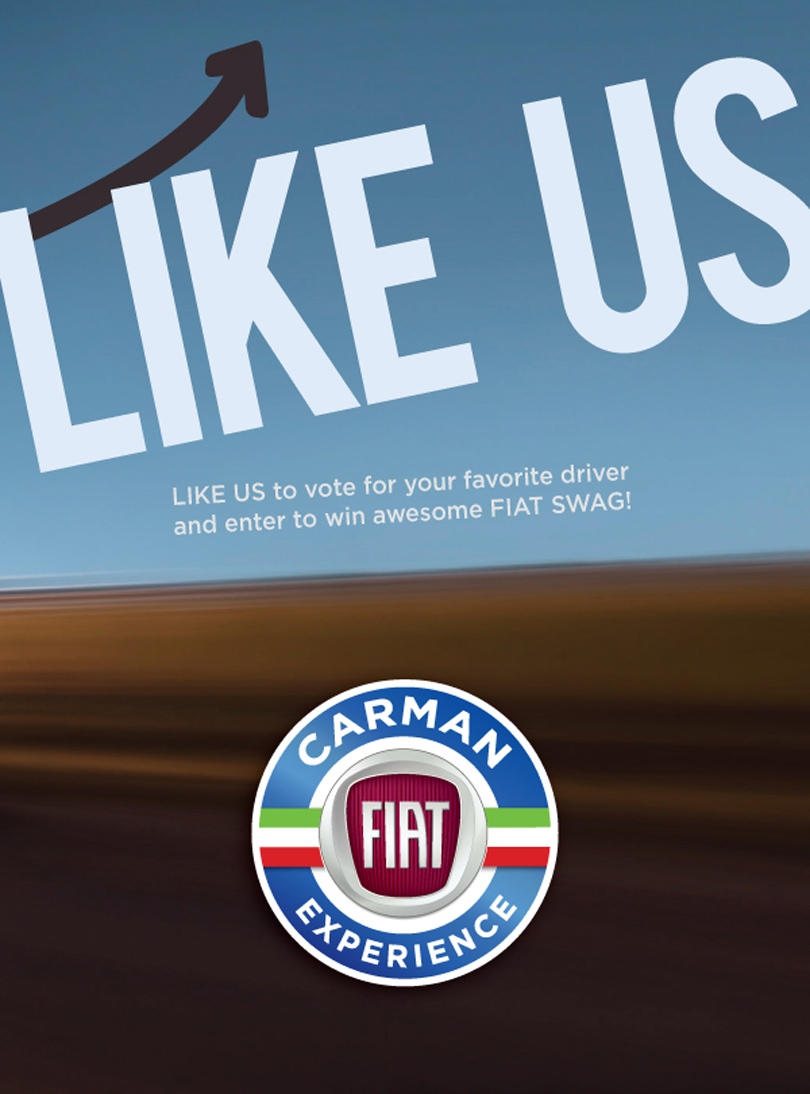
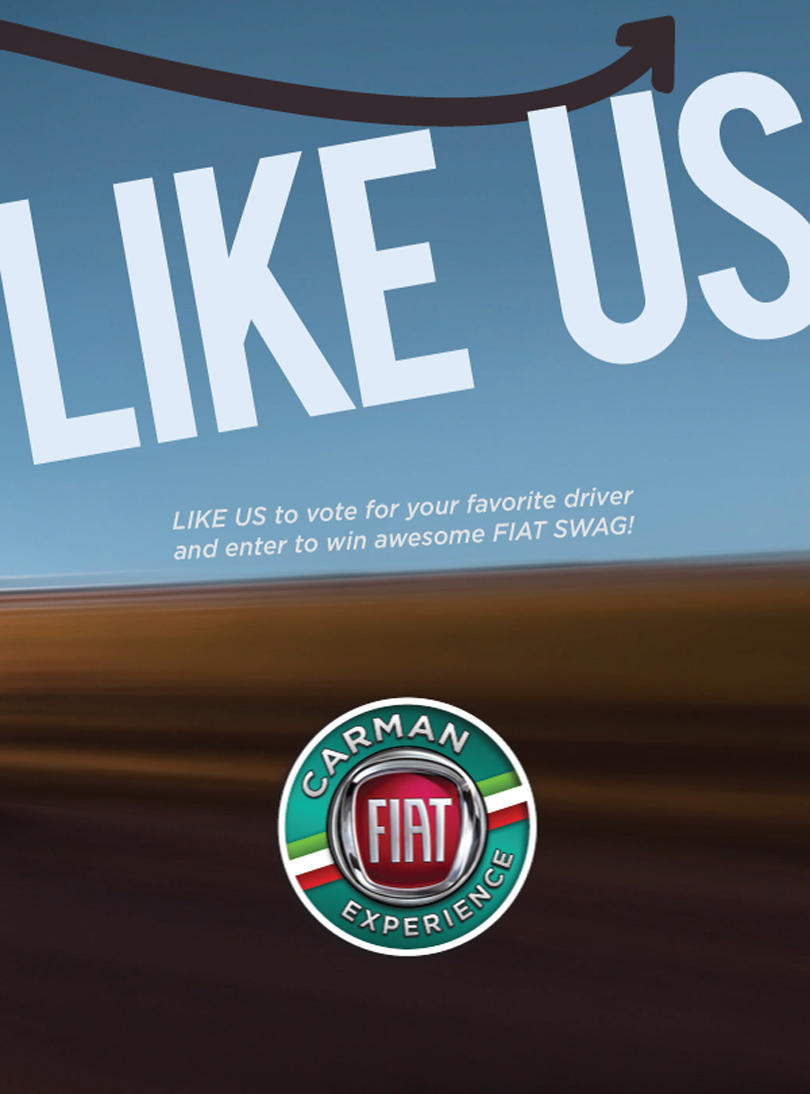
updated main copy

diff --git a/app/assets/stylesheets/custom.css.scss b/app/assets/stylesheets/custom.css.scss
@@ -164,22 +164,24 @@ section#main-container {
 	
 		section#main-content-tab1 {
 			width: 810px;
-			height: 175px;
+			height: 200px;
 			
 			p { 
 				position: relative;
-				top: 35px;
+				top: 10px;
 				left: 50px;
+				font-family: Cambria, Georgia, serif;
 				font-size: 16px;
+				letter-spacing: 1px;
 				color: #fff; 
 			}
 			
 			.vote-btn-big {
 				float: right;
-				margin:-1px 40px 0 0;
-				width: 232px;
-				height: 176px;
-				background: url('/assets/vote-btn-big.png');
+				margin:-1px 20px 0 0;
+				width: 263px;
+				height: 204px;
+				background: url('/assets/vote-btn-big-2.png');
 			}
 		}
 	
@@ -538,6 +540,17 @@ section#test-driver-form {
 	  -webkit-box-shadow: inset 0 0 2px #000;
 	  box-shadow: inner 0 0 2px #000;
 	}
+}
+
+/*-----------MODAL-----------*/
+#myModalLabel {
+	font-family: Cambria, Georgia, serif;
+	color: $black;
+}
+
+div.modal-body p {
+	font-family: Cambria, Georgia, serif;
+	color: $black;
 }
 
 /*-----------MISC-----------*/
